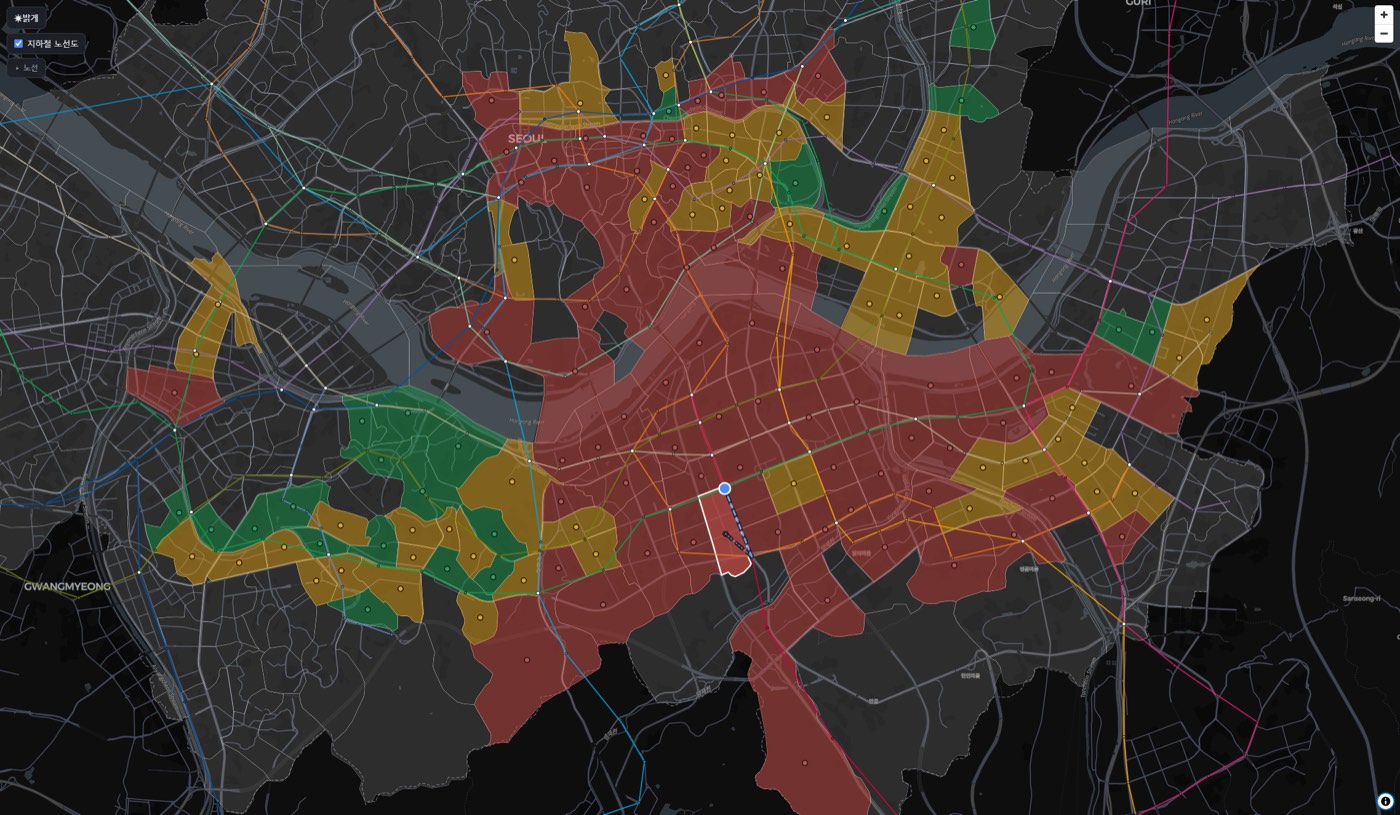
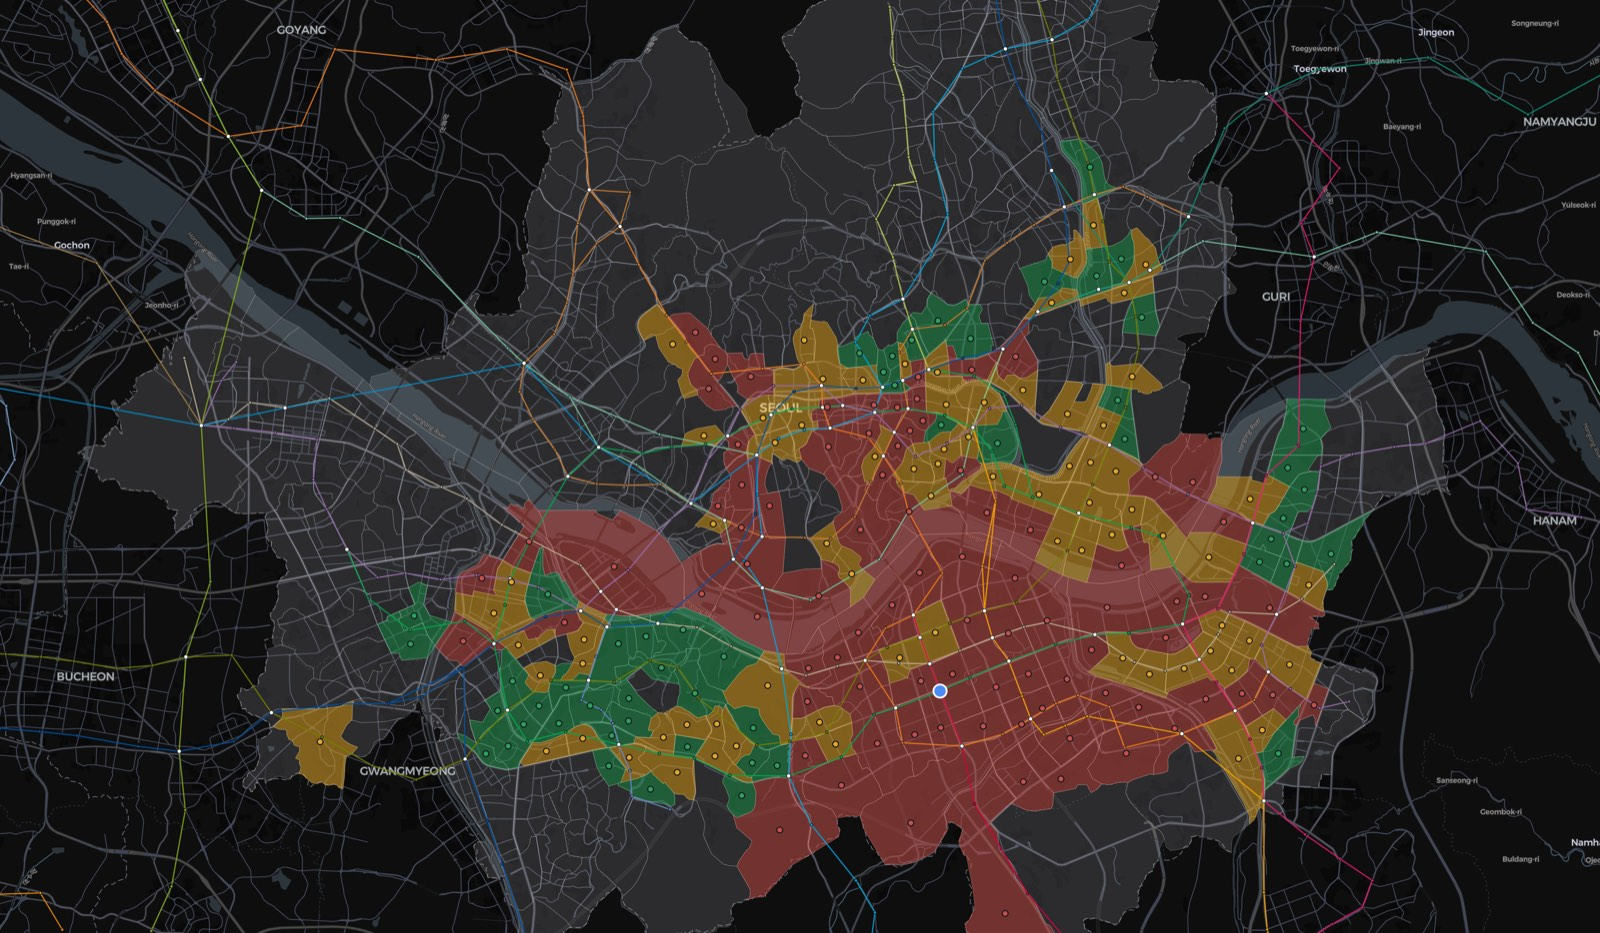
fix(landing): 히어로 배경을 캔버스에서 다시 뽑아 3200px 까지 올린다
앞선 커밋에서 히어로를 2178px 원본으로 갈았는데도 여전히 뭉갰다.
이유는 간단하다 — 히어로는 화면 전체를 덮으므로 필요한 픽셀이
`뷰포트 폭 × dpr` 이다. QHD(2560) 에 dpr 2 면 5120px 이 필요한데
2000px 짜리를 깔면 2.5배로 늘어난다. 사진을 바꾼 게 아니라 여전히
모자랐던 것이다.

받은 스크린샷(2178px)이 천장이라 거기서는 더 못 올린다. 그래서 지도
스크린샷 때 쓴 방법을 그대로 히어로에도 적용했다 — MapLibre 캔버스를
setPixelRatio 로 올려 **4096x2389** 로 뽑았다.

화각도 다시 잡았다. 이전에는 서울이 프레임의 60% 만 채우고 나머지가
경기도였다. 현재 bounds 를 읽어 "서울 경도 폭 0.43도가 프레임의 88%"가
되도록 줌을 역산했다.

  hero-map-xl.webp  3200px  333KB   ← 큰 화면·고밀도용 (새로 추가)
  hero-map.webp     2000px  189KB
  hero-map-sm.webp  1200px  106KB
  hero-map.jpg      1600px  349KB   폴백

확인: 2545px 폭 화면에서 브라우저가 xl 을 골라 **축소해서** 그린다.
확대가 아니라 축소라 이제 선명하다.

캡처용으로 MapView 에 window.__map 을 잠깐 노출했다가 되돌렸다.

diff --git a/src/components/Landing.tsx b/src/components/Landing.tsx
@@ -463,6 +463,11 @@ export default function Landing({ onPick, onSkip, theme, onToggleTheme }: Props)
  * 우선순위를 올린다. 반대로 CTA 쪽은 스크롤을 한참 내려야 나오므로
  * `loading="lazy"` 로 미룬다.
  *
+ * **3200px 짜리를 두는 이유.** 이 사진은 화면 전체를 덮으므로 필요한
+ * 픽셀이 `뷰포트 폭 × dpr` 이다. QHD(2560) 에 dpr 2 면 5120px 이라,
+ * 2000px 만 두면 2.5배로 늘어나 눈에 띄게 뭉갠다. 원본을 MapLibre 캔버스에서
+ * 4096px 로 뽑아 3200px 까지 만들어 뒀다.
+ *
  * alt 를 비워둔 건 장식이기 때문이다 — 이 사진이 전하는 내용은 바로 옆
  * h1 과 등급 범례가 글로 이미 말하고 있어서, 읽어주면 중복이 된다.
  */
@@ -478,15 +483,15 @@ function HeroImage({
       <picture>
         <source
           type="image/webp"
-          srcSet="/shots/hero-map-sm.webp 1100w, /shots/hero-map.webp 2000w"
+          srcSet="/shots/hero-map-sm.webp 1200w, /shots/hero-map.webp 2000w, /shots/hero-map-xl.webp 3200w"
           sizes="100vw"
         />
         {/* webp 를 못 읽는 브라우저용 폴백. 폴백이므로 해상도를 낮게 잡았다 */}
         <img
           src="/shots/hero-map.jpg"
           alt=""
-          width={2000}
-          height={1164}
+          width={3200}
+          height={1866}
           decoding="async"
           loading={priority ? "eager" : "lazy"}
           fetchPriority={priority ? "high" : "low"}
